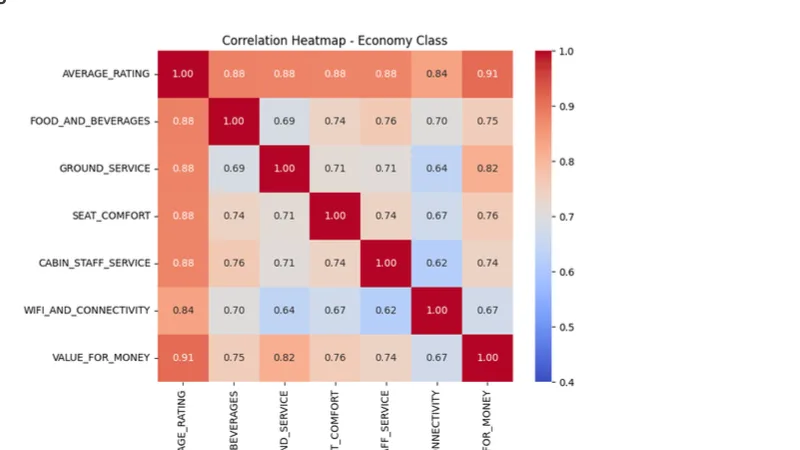
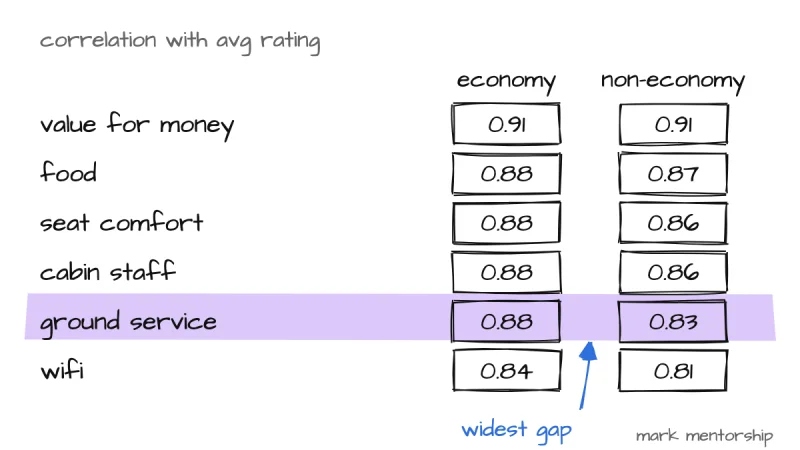
Redraw the mentee project pictures by hand from each repo's numbers
The five screenshot crops become rough.js sketches in the site's style: the skytrax dbt lineage, Delta's correlation table, Frontier's service scores by seat, Spirit's rating by seat and Tony's DuckDB star schema.

diff --git a/index.html b/index.html
@@ -154,31 +154,31 @@
     </figure>
     <div class="cards" data-reveal-group>
       <div class="card" data-sketch="box">
-        <img class="shot" src="assets/img/proj-skytrax.webp" alt="The dbt lineage from dim tables to fct_review, ending in the Spirit Airlines dashboard" width="800" height="450" loading="lazy">
+        <img class="shot" src="assets/img/proj-skytrax.webp" alt="A hand-drawn dbt lineage: stg, int_cleaned, three dims, fct_review highlighted and tested one row per review_id, then agg_airlines and the Spirit dashboard" width="800" height="450" loading="lazy">
         <h3 class="hand"><a href="https://github.com/MarkPhamm/skytrax_reviews" target="_blank" rel="noopener">skytrax_reviews</a></h3>
         <p class="aside">Mark + mentees</p>
         <p data-i18n="projects.c1">The shared pipeline: scraper, S3, Snowflake, a dbt star schema, Terraform and slim CI/CD.</p>
       </div>
       <div class="card" data-sketch="box">
-        <img class="shot" src="assets/img/proj-delta.webp" alt="Correlation heatmap of satisfaction factors for Delta economy class" width="800" height="450" loading="lazy">
+        <img class="shot" src="assets/img/proj-delta.webp" alt="A hand-drawn table of how each factor correlates with the average rating for Delta, economy against non-economy; ground service, 0.88 against 0.83, is the widest gap" width="800" height="450" loading="lazy">
         <h3 class="hand"><a href="https://github.com/alyssaqle/airline_customer_exp_analysis" target="_blank" rel="noopener">airline_customer_exp_analysis</a></h3>
         <p class="aside">Alyssa Le</p>
         <p data-i18n="projects.c2">Delta: why Economy and Premium passengers are happy for different reasons.</p>
       </div>
       <div class="card" data-sketch="box">
-        <img class="shot" src="assets/img/proj-frontier.webp" alt="Bar chart of review counts by seat type from the Frontier dashboard" width="800" height="450" loading="lazy">
+        <img class="shot" src="assets/img/proj-frontier.webp" alt="Hand-drawn bars of cabin staff and wifi scores by seat type; first class cabin staff is highest at 2.6" width="800" height="450" loading="lazy">
         <h3 class="hand"><a href="https://github.com/gwenniehub/frontier-reviews-dashboard" target="_blank" rel="noopener">frontier-reviews-dashboard</a></h3>
         <p class="aside">Gwen Nguyen</p>
         <p data-i18n="projects.c3">Frontier against its ultra-low-cost peers.</p>
       </div>
       <div class="card" data-sketch="box">
-        <img class="shot" src="assets/img/proj-spirit.webp" alt="Bar chart of Spirit average rating by seat type, first class highest at 2.103" width="800" height="450" loading="lazy">
+        <img class="shot" src="assets/img/proj-spirit.webp" alt="Hand-drawn bars of Spirit average rating by seat type: first 2.103, economy 1.577, premium economy 1.564, business 1.286" width="800" height="450" loading="lazy">
         <h3 class="hand"><a href="https://github.com/MiaTran1112/spirit_airlines_dashboard" target="_blank" rel="noopener">spirit_airlines_dashboard</a></h3>
         <p class="aside">Mia Tran</p>
         <p data-i18n="projects.c4">Spirit: a deep dive into chronic dissatisfaction.</p>
       </div>
       <div class="card" data-sketch="box">
-        <img class="shot" src="assets/img/proj-local.webp" alt="The star schema ERD of the local DuckDB warehouse" width="800" height="450" loading="lazy">
+        <img class="shot" src="assets/img/proj-local.webp" alt="A hand-drawn star schema: fct_airline_reviews in the middle, joined to dim_date, dim_airline, dim_cabin, dim_country and dim_traveller_type" width="800" height="450" loading="lazy">
         <h3 class="hand"><a href="https://github.com/tony071204/Skytrax-local-warehouse" target="_blank" rel="noopener">Skytrax-local-warehouse</a></h3>
         <p class="aside">Tony Dam</p>
         <p data-i18n="projects.c6">The same reviews on one laptop: DuckDB, dbt and Streamlit, no cloud.</p>

diff --git a/drawing/proj-skytrax.js b/drawing/proj-skytrax.js
@@ -1,0 +1,19 @@
+// project card: skytrax_reviews dbt lineage (from the repo's lineage graph), fct_review under the swipe
+const node=(x,y,w,label,size=32)=>{rect(x,y,w,72);text(label,x+w/2,y+48,size);};
+const go=(x1,y1,x2,y2)=>arrow([[x1,y1],[(x1+x2)/2,(y1+y2)/2+(y2>y1?-12:12)],[x2,y2]],{strokeWidth:2.2});
+highlight(692,262,250,124);
+node(30,288,130,'stg',40);
+node(200,288,210,'int_cleaned');
+node(460,120,210,'dim_airline');
+node(460,288,210,'dim_date');
+node(460,456,210,'dim_aircraft');
+node(705,282,226,'fct_review',34);
+node(960,120,215,'agg_airlines',30);
+node(960,456,215,'spirit dash',30);
+go(160,324,198,324);
+go(410,316,458,160); go(410,324,458,324); go(410,332,458,490);
+go(670,160,713,300); go(670,324,713,322); go(670,490,713,346);
+go(931,300,958,160); go(931,346,958,490);
+arrow([[930,600],[860,560],[820,392]],{strokeWidth:2.6,stroke:BLUE});
+text('one row per review_id',940,630,34,'middle',BLUE);
+text('mark mentorship',W-40,H-14,26,'end','#666');

diff --git a/drawing/proj-frontier.js b/drawing/proj-frontier.js
@@ -1,0 +1,15 @@
+// project card: Gwen Nguyen's Frontier dashboard. in-flight service score by seat type, cabin staff vs wifi
+const base=560, k=150, bw=80;
+const groups=[['first',2.6,1.5,230],['premium',1.9,1.1,500],['economy',1.8,1.1,770],['business',1.8,1.0,1040]];
+highlight(230-bw-16,base-2.6*k-60,bw+24,2.6*k+70);
+line(70,base,1160,base-2,{strokeWidth:2.4});
+groups.forEach(([name,staff,wifi,cx])=>{
+  rect(cx-bw-4,base-staff*k,bw,staff*k,{strokeWidth:2.4});
+  text(staff.toFixed(1),cx-bw/2-4,base-staff*k-16,34);
+  rect(cx+4,base-wifi*k,bw,wifi*k,{strokeWidth:2.2,fill:INK,fillStyle:'hachure',hachureGap:12,fillWeight:1.4});
+  text(wifi.toFixed(1),cx+bw/2+4,base-wifi*k-16,34);
+  text(name,cx,base+52,38);
+});
+rect(760,40,36,36,{strokeWidth:2.2}); text('cabin staff',808,70,32,'start');
+rect(1010,40,36,36,{strokeWidth:2,fill:INK,fillStyle:'hachure',hachureGap:10}); text('wifi',1058,70,32,'start');
+text('mark mentorship',W-40,H-14,26,'end','#666');

diff --git a/drawing/proj-delta.js b/drawing/proj-delta.js
@@ -1,0 +1,13 @@
+// project card: Alyssa Le's Delta analysis. correlation of each factor with avg rating (economy vs non-economy)
+const rows=[['value for money','0.91','0.91'],['food','0.88','0.87'],['seat comfort','0.88','0.86'],['cabin staff','0.88','0.86'],['ground service','0.88','0.83'],['wifi','0.84','0.81']];
+const y0=150, rh=74, cx1=760, cx2=1010;
+text('correlation with avg rating',60,70,34,'start','#666');
+highlight(40,y0+4*rh-6,1120,rh-2);
+text('economy',cx1,y0-20,36); text('non-economy',cx2,y0-20,36);
+rows.forEach(([f,a,b],i)=>{const y=y0+i*rh;
+  text(f,60,y+48,38,'start');
+  rect(cx1-80,y+6,160,rh-14,{strokeWidth:2.2}); text(a,cx1,y+48,38);
+  rect(cx2-80,y+6,160,rh-14,{strokeWidth:2.2}); text(b,cx2,y+48,38);});
+arrow([[872,y0+6*rh+22],[880,y0+5*rh+40],[886,y0+5*rh-6]],{strokeWidth:2.4,stroke:BLUE});
+text('widest gap',858,y0+6*rh+60,34,'end',BLUE);
+text('mark mentorship',W-40,H-14,26,'end','#666');

diff --git a/drawing/proj-local.js b/drawing/proj-local.js
@@ -1,0 +1,12 @@
+// project card: Tony Dam's local warehouse. the star around fct_airline_reviews, from his DuckDB ERD
+const node=(x,y,w,label,size=32)=>{rect(x,y,w,72);text(label,x+w/2,y+48,size);};
+highlight(380,262,440,108);
+node(400,280,400,'fct_airline_reviews',36);
+node(60,70,240,'dim_date');
+node(900,70,240,'dim_airline');
+node(40,470,240,'dim_cabin');
+node(920,470,240,'dim_country');
+node(440,540,320,'dim_traveller_type');
+[[300,106,420,280],[900,106,780,280],[280,506,420,352],[920,506,780,352],[600,540,600,352]].forEach(([x1,y1,x2,y2])=>curve([[x1,y1],[(x1+x2)/2+8,(y1+y2)/2-8],[x2,y2]],{strokeWidth:2.2}));
+text('duckdb · 9 dims · 4 facts',600,190,34,'middle','#666');
+text('mark mentorship',W-40,H-14,26,'end','#666');

diff --git a/drawing/proj-spirit.js b/drawing/proj-spirit.js
@@ -1,0 +1,11 @@
+// project card: Mia Tran's Spirit dashboard. average rating by seat type
+const rows=[['first',2.103],['economy',1.577],['premium eco',1.564],['business',1.286]];
+const x0=300, k=360, y0=130, rh=118;
+text('avg rating by seat type',60,70,34,'start','#666');
+highlight(40,y0-14,x0+2.103*k+130,rh-10);
+rows.forEach(([name,v],i)=>{const y=y0+i*rh;
+  text(name,x0-24,y+58,40,'end');
+  rect(x0,y,v*k,80,{strokeWidth:2.4});
+  text(v.toFixed(3),x0+v*k+18,y+56,38,'start');});
+line(x0,y0-20,x0-2,y0+4*rh-20,{strokeWidth:2.4});
+text('mark mentorship',W-40,H-14,26,'end','#666');

diff --git a/drawing/make.py b/drawing/make.py
@@ -5,7 +5,8 @@ from playwright.sync_api import sync_playwright
 NAME = sys.argv[1]
 SIZES = {'hero': (2000, 760), 'how': (2000, 900), 'note': (2000, 1000), 'offer': (2000, 1000), 'og': (1200, 630), 'square': (1600, 1600),
          'hero-m': (1100, 720), 'offer-m': (1100, 1000), 'note-m': (1100, 960), 'how-m': (1100, 980), 'portrait': (900, 1050),
-         'projects': (2400, 1150), 'projects-m': (1100, 1930), 'findings': (2000, 1060), 'findings-m': (1100, 1000), 'explorer': (1600, 900)}
+         'projects': (2400, 1150), 'projects-m': (1100, 1930), 'findings': (2000, 1060), 'findings-m': (1100, 1000), 'explorer': (1600, 900),
+         **{n: (1200, 675) for n in ['proj-skytrax', 'proj-delta', 'proj-frontier', 'proj-spirit', 'proj-local']}}
 W, H = SIZES[NAME]
 OUT = NAME + '.png'
 

diff --git a/README.md b/README.md
@@ -31,7 +31,7 @@ uv run --with playwright python3 make.py hero   # or: how, note, offer
 cp hero.png ../assets/img/
 ```
 
-Each drawing is a small JS file (`drawing/hero.js`, `how.js`, `note.js`, `offer.js`) rendered by `make.py`. Each of those four has a phone cut (`hero-m.js` and so on, 1100px wide with bigger labels) that `index.html` serves below 640px through `<picture>`; change both when you change one. `portrait.js` is the sketch in the about section; `projects.js` (the skytrax pipeline) and `findings.js` (the dashboard KPIs, snapshot 2026-07-30 from the skytrax_reviews README) also have `-m` cuts. `explorer.js` is the sketch on Tien's project card, standing in for a screenshot until his live explorer loads data again. The other card pictures (`assets/img/proj-*.webp`) are crops of images from each mentee's repo.
+Each drawing is a small JS file (`drawing/hero.js`, `how.js`, `note.js`, `offer.js`) rendered by `make.py`. Each of those four has a phone cut (`hero-m.js` and so on, 1100px wide with bigger labels) that `index.html` serves below 640px through `<picture>`; change both when you change one. `portrait.js` is the sketch in the about section; `projects.js` (the skytrax pipeline) and `findings.js` (the dashboard KPIs, snapshot 2026-07-30 from the skytrax_reviews README) also have `-m` cuts. `explorer.js` is the sketch on Tien's project card, standing in for a screenshot until his live explorer loads data again. The other card pictures are hand-drawn from each mentee repo's real numbers (`drawing/proj-*.js`), rendered by `make.py` and saved as `assets/img/proj-*.webp`.
 
 ## Preview locally
 
